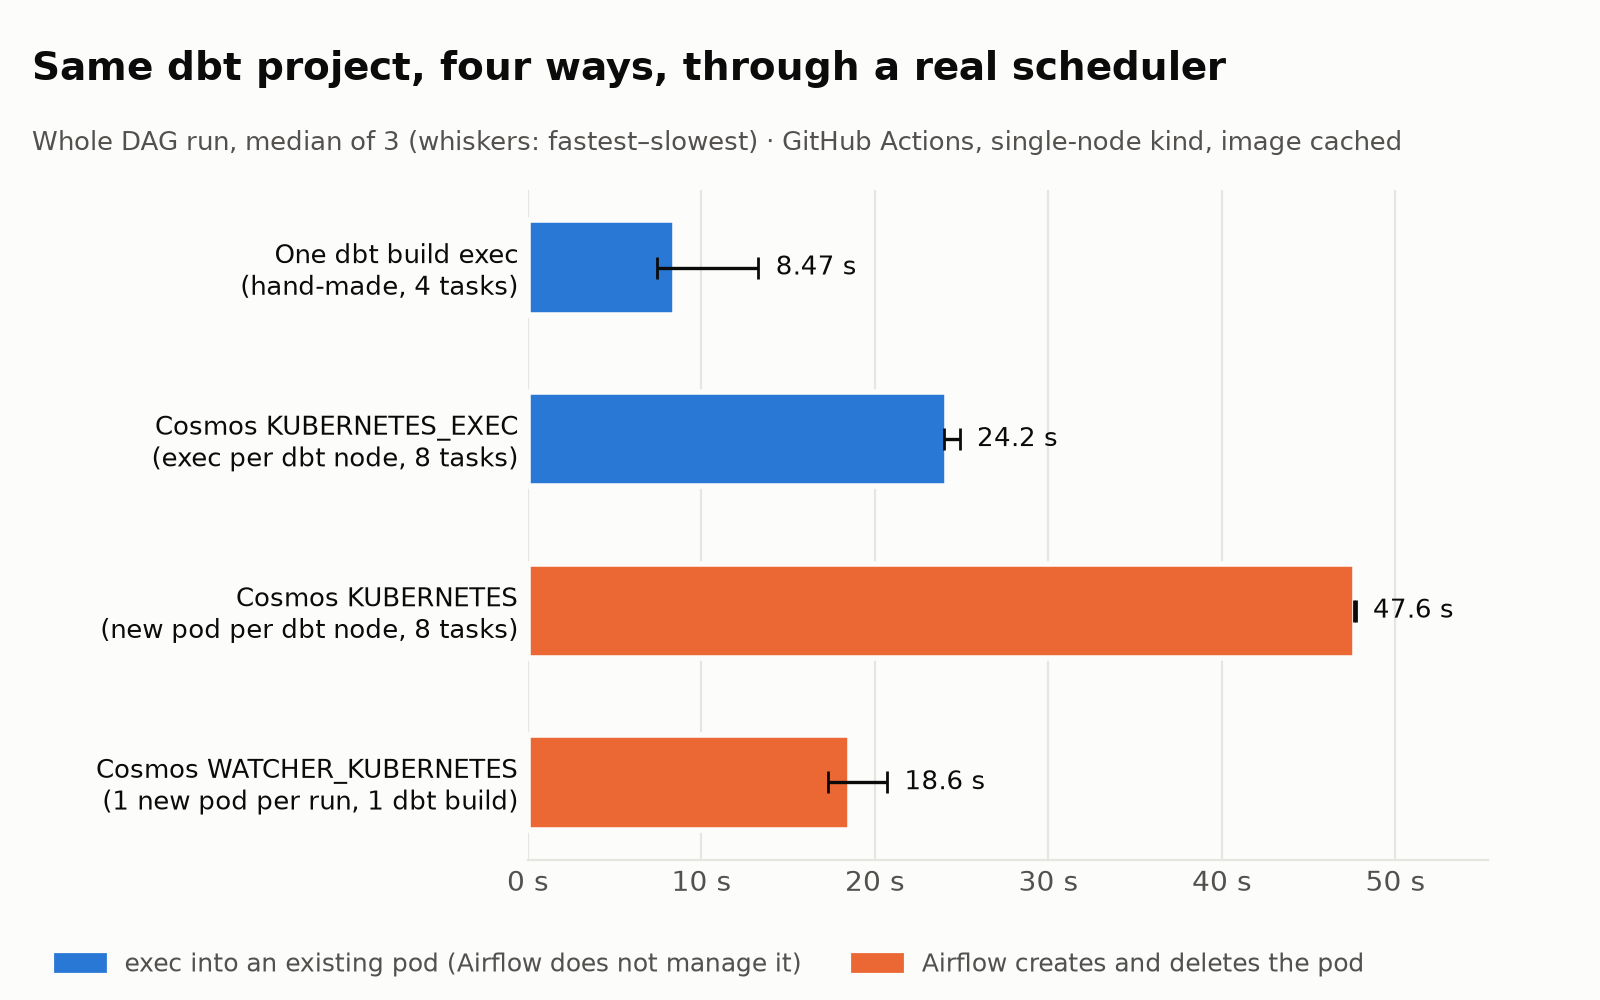
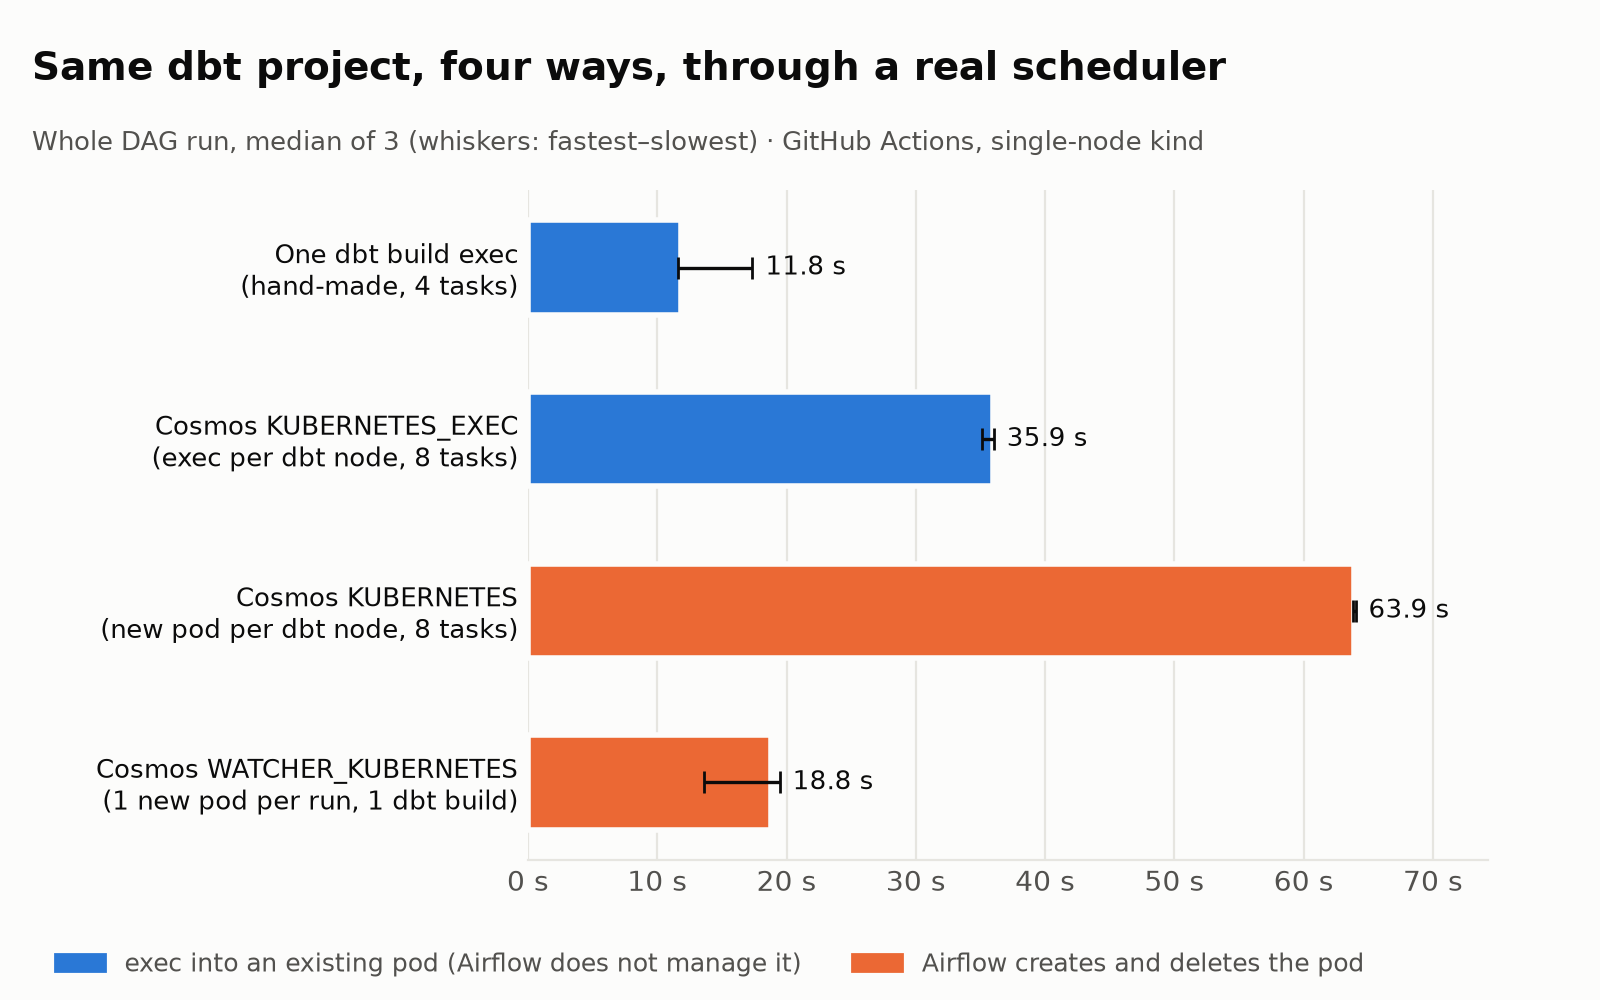
README and charts: scale numbers with one DAG per file, exec task breakdown

diff --git a/README.md b/README.md
@@ -104,28 +104,56 @@ DuckDB). Each project runs four ways through a real scheduler. These numbers com
 
 | whole run | 10 models | 50 models | 200 models | per model |
 |---|---:|---:|---:|---:|
-| one `dbt build` exec | 8.5 s | 6.2 s | 11.7 s | ~0 s |
-| Cosmos `WATCHER_KUBERNETES` | 19.0 s | 46.8 s | 138.9 s | 0.6 s |
-| Cosmos `KUBERNETES_EXEC` | 49.6 s | 249.6 s | 1,010 s | 5.1 s |
-| Cosmos `KUBERNETES` | 87.7 s | 431.0 s | not run (~29 min extrapolated) | 8.6 s |
+| one `dbt build` exec | 5.2 s | 3.5 s | 6.2 s | ~0 s |
+| Cosmos `WATCHER_KUBERNETES` | 18.8 s | 26.4 s | 72.6 s | 0.3 s |
+| Cosmos `KUBERNETES_EXEC` | 29.5 s | 150.7 s | 638.4 s | 3.2 s |
+| Cosmos `KUBERNETES` | 59.3 s | 299.9 s | not run (~20 min extrapolated) | 6.0 s |
 
 | inside the pod (median of 3) | 10 models | 50 models | 200 models |
 |---|---:|---:|---:|
-| `dbt --version` | 2.04 s | 2.08 s | 2.09 s |
-| `dbt parse` (partial, pre-parsed) | 2.74 s | 2.82 s | 2.91 s |
-| `dbt parse --no-partial-parse` (full) | 3.80 s | 3.92 s | 4.40 s |
+| `dbt --version` | 1.41 s | 1.37 s | 1.39 s |
+| `dbt parse` (partial, pre-parsed) | 1.78 s | 1.84 s | 1.87 s |
+| `dbt parse --no-partial-parse` (full) | 2.57 s | 2.62 s | 3.00 s |
 
-- **Exec per node grows linearly, about 5 s per model.** Each node pays a dbt start-up (~2 s), loading the
-  partial parse and the exec itself, and the one-slot pool runs them one at a time. At 200 models that's 7× the
-  watcher and 87× a single build.
-- **The watcher grows slowly** (0.6 s per model). dbt starts once and runs with threads, so most of the
+- **Exec per node grows linearly, about 3.2 s per model.** The one-slot pool runs the nodes one at a time,
+  and each one starts a dbt process (the breakdown below). At 200 models that's 8.8× the watcher and 100× a
+  single build.
+- **The watcher grows slowly** (0.3 s per model). dbt starts once and runs with threads, so most of the
   growth comes from following the per-node sensors.
-- **Parsing isn't what grows here.** A full parse of 200 models took 4.4 s, against 3.8 s for 10. These
+- **Parsing isn't what grows here.** A full parse of 200 models took 3.0 s, against 2.6 s for 10. These
   models are plain SQL with no YAML, macros or packages, though, and a real project of the same size parses
   slower. The point is that what grows is the dbt *process* started once per node, not the parse.
 - **The pool is a DuckDB constraint.** With a warehouse that takes many writers, exec per node could run up to a
   layer's width (10 here) at once, which would cut its time a lot. That hasn't been measured.
 - One run per point, so small differences are noise (the 50-model build was faster than the 10-model one).
+- **One DAG per file matters.** Airflow re-parses a task's DAG file before running the task. A first version of
+  this benchmark kept all twelve scale DAGs in one file, and every per-node task paid ~1.5 s for it: exec per node
+  took 1,010 s at 200 models and the watcher 139 s. Runner speed also varies between CI runs (±30% on the same
+  code), so only compare numbers from the same run.
+
+#### Where an exec-per-node task spends its time
+
+`just profile-exec 50` ([`bench/profile_exec.py`](bench/profile_exec.py), manual workflow *profile exec on kind*)
+runs the 50-model project through `KUBERNETES_EXEC` with dbt wrapped by a script that logs when dbt starts and exits.
+Then it splits every task's log into segments. Median of 50 tasks on CI:
+
+| segment | s |
+|---|---:|
+| Airflow re-parses the DAG file | 0.34 |
+| operator setup, read the pod | 0.03 |
+| exec connection + process spawn | 0.03 |
+| **dbt CLI start-up (imports)** | **1.36** |
+| **adapter + load the partial parse** | **0.58** |
+| connection + run setup | 0.10 |
+| the model itself | 0.10 |
+| **dbt exit (writes artifacts)** | **0.31** |
+| **whole task** | **2.86** |
+| gap before the next task | 0.38 |
+
+86% of each task is a dbt process starting up and shutting down. The exec and the pod add 0.06 s, so the pod's
+configuration isn't what makes this mode slower, and neither is exec. To get near the watcher, exec mode would have to
+stop starting one dbt process per node: one `dbt build` per run with per-node tasks that follow it, the way the
+watcher does, but run through exec in the existing pod.
 
 ## Measuring it
 
